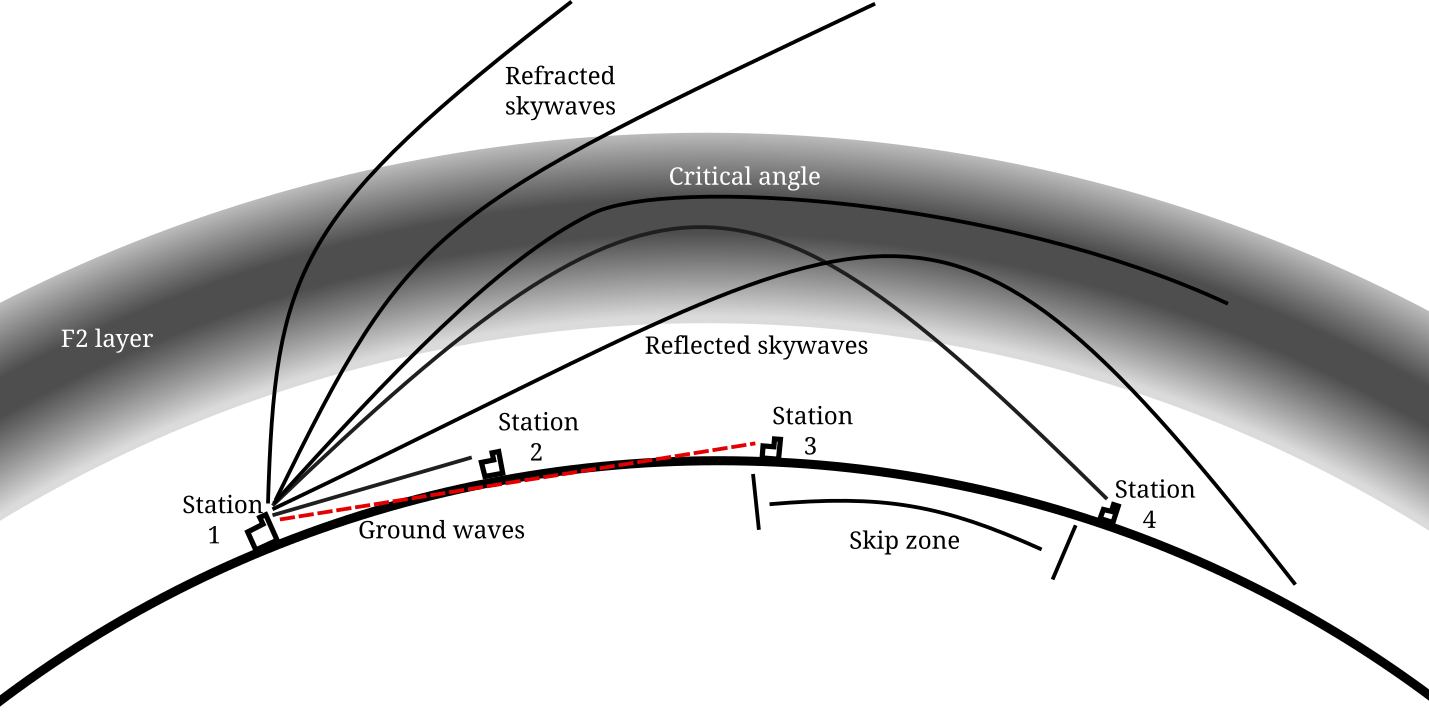
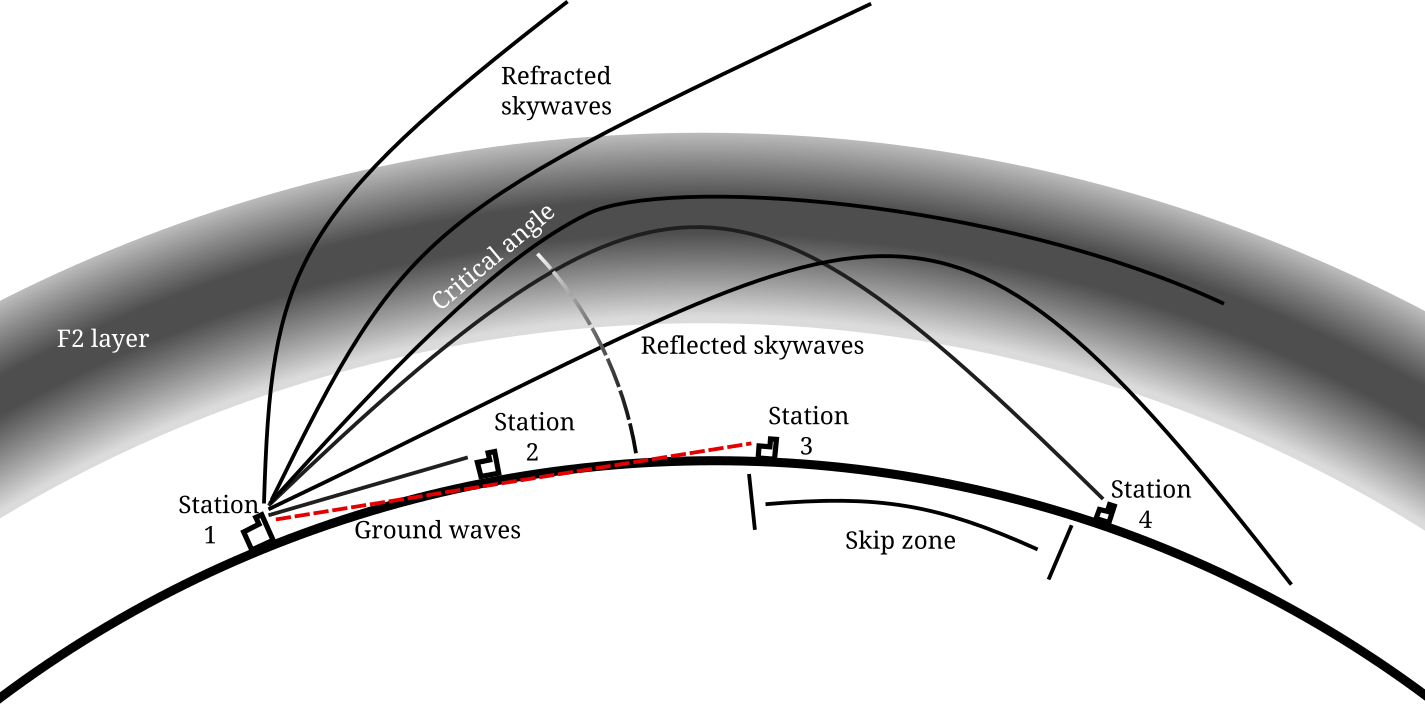
typo, lofasz

diff --git a/vakulya-signals2025-ft8.tex b/vakulya-signals2025-ft8.tex
@@ -158,7 +158,7 @@ resolution.
 \end{figure}
 
 HF radio signals, typically in the range of 3–30 MHz, can propagate over long
-distances through two primary mechanisms: ground-wave and sky-wave propagation.
+distances through two primary mechanisms: ground-wave and skywave propagation.
 Ground waves travel along the Earth’s surface and are influenced by terrain
 conductivity and frequency; they are most effective at lower HF frequencies and
 gradually attenuate with distance due to surface absorption. While ground waves
@@ -167,7 +167,7 @@ insufficient for global coverage. Long-distance HF communication relies on sky
 waves, which are refracted—or, at certain angles, reflected—by the ionosphere.
 The ionosphere is a region of the upper atmosphere, starting at around 50 km
 above the surface, that contains charged particles produced by solar
-ultraviolet and X-ray radiation. Sky-wave propagation enables signals to "hop"
+ultraviolet and X-ray radiation. Skywave propagation enables signals to "hop"
 between the ionosphere and the Earth's surface, allowing communication over
 thousands of kilometers. Multiple hops can occur, extending coverage to
 intercontinental distances.
@@ -200,7 +200,7 @@ The F2 layer, is crucial for long-distance HF communication, as it remains
 ionized even at night and can reflect higher HF frequencies over 3000 km per
 hop \cite{lusis1983hf}.
 In Fig. \ref{fig-layers} Station 1 can reach the nearby Station 2 with ground waves.
-Station 3 is in the farthest, which can be reached with ground waves. Station 4
+Station 3 is at the closest point which cannot be reached with ground waves. Station 4
 is the closest one, which can be rached with skywaves. Skip zone is formed between
 Station 3 and 4.
 
@@ -401,7 +401,7 @@ possible, with compromises in gain and simplicity. In this study, the
 target installation area was an attic with a length of 18 meters, which
 constrained the lowest practical band to 10 MHz. The two highest bands, 24 MHz
 and 28 MHz, are special cases, as they generally become active only under
-specific and occasionally propagation conditions, rather than
+specific and occasional propagation conditions, rather than
 following a consistent daily pattern.
 
 For this study the 14 MHz (20-meter) band was chosen due to its consistent
@@ -599,7 +599,7 @@ around midnight. This is the range, that can typically be reached via a single i
 reflection (hop). The lowest distance bin shows reduced activity, due
 to the so-called skip zone; these distances are already too far for reliable
 ground-wave propagation yet too
-close for sky-wave reflection.
+close for skywave reflection.
 
 The zone between 6000 km and 9000 km shows regular, but smaller activity, with the
 strongest distance interval being in the 7500-8000 km range.
